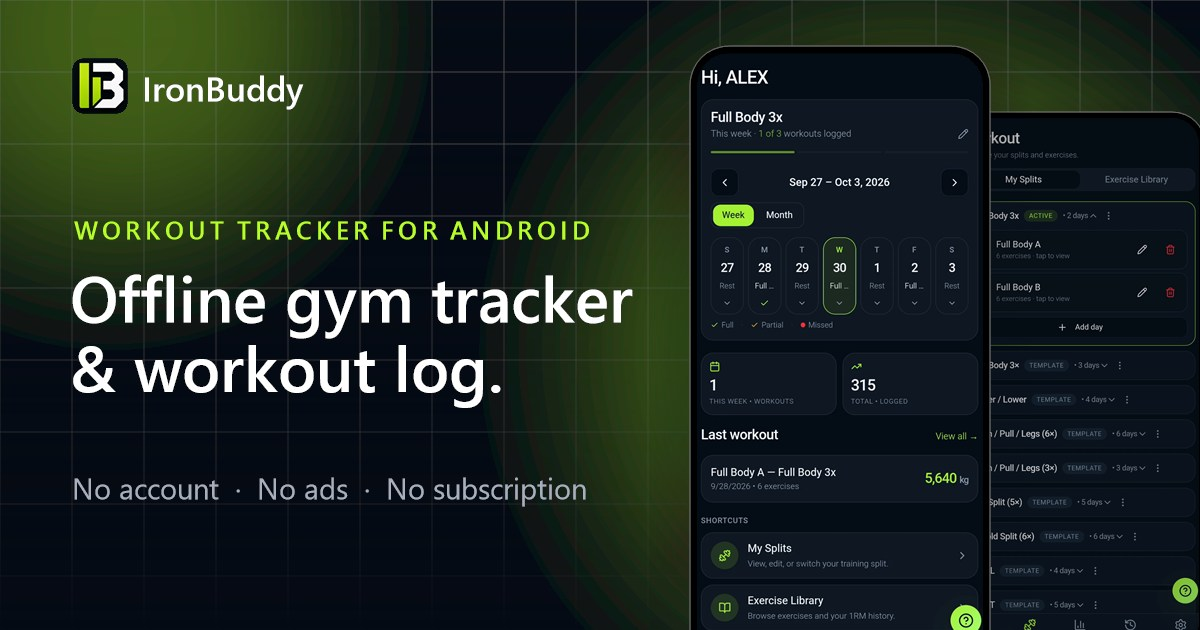
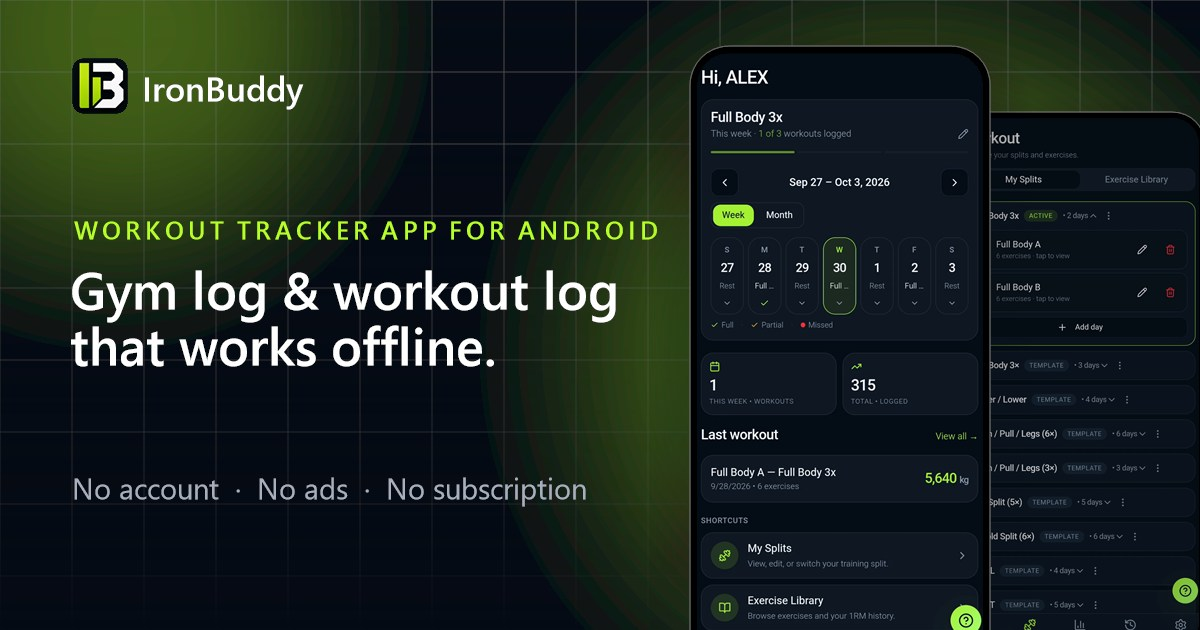
Lead the home heading with the searches people use: workout tracker app, gym log, workout log.
The H1 now reads "Workout tracker app for Android. Gym log & workout log that works offline." Autocomplete
shows "offline" is a weak, ambiguous search term (Offline is also a clothing brand), so it moves to the end
of the heading and into the line below it. The share image and its alt text carry the same words.

Changed region(s): [[0.0617, 0.4222, 0.5242, 0.6635], [0.3083, 0.3317, 0.555, 0.3921]]

diff --git a/src/components/sections/Hero.tsx b/src/components/sections/Hero.tsx
@@ -20,15 +20,15 @@ export function Hero() {
           {/* The eyebrow is part of the H1 so the page's main heading names what the app is. */}
           <h1 className="max-w-xl">
             <span className="block text-xs font-semibold uppercase tracking-[0.22em] text-primary">
-              Workout tracker for Android
+              Workout tracker app for Android
               <span className="sr-only">. </span>
             </span>
             <span className="mt-2 block text-[1.65rem] font-semibold leading-[1.1] tracking-tight text-white lg:mt-4 lg:text-[3.4rem] lg:leading-[1.08]">
-              Offline gym tracker &amp; workout log.
+              Gym log &amp; workout log that works offline.
             </span>
           </h1>
           <p className="mt-2 text-sm font-semibold tracking-tight text-white/85 sm:text-base lg:mt-3 lg:text-2xl">
-            Track progressive overload. Pay once, no subscription.
+            Track progressive overload offline. Pay once, no subscription.
           </p>
 
           <ul

diff --git a/src/lib/site.ts b/src/lib/site.ts
@@ -47,7 +47,7 @@ export const siteConfig = {
   ogImageHeight: 630,
   ogImageType: "image/jpeg",
   ogImageAlt:
-    "IronBuddy workout tracker for Android: offline gym tracker and workout log. No account, no ads, no subscription.",
+    "IronBuddy workout tracker app for Android: gym log and workout log that works offline. No account, no ads, no subscription.",
   freeTrialDays,
   price,
 } as const;
